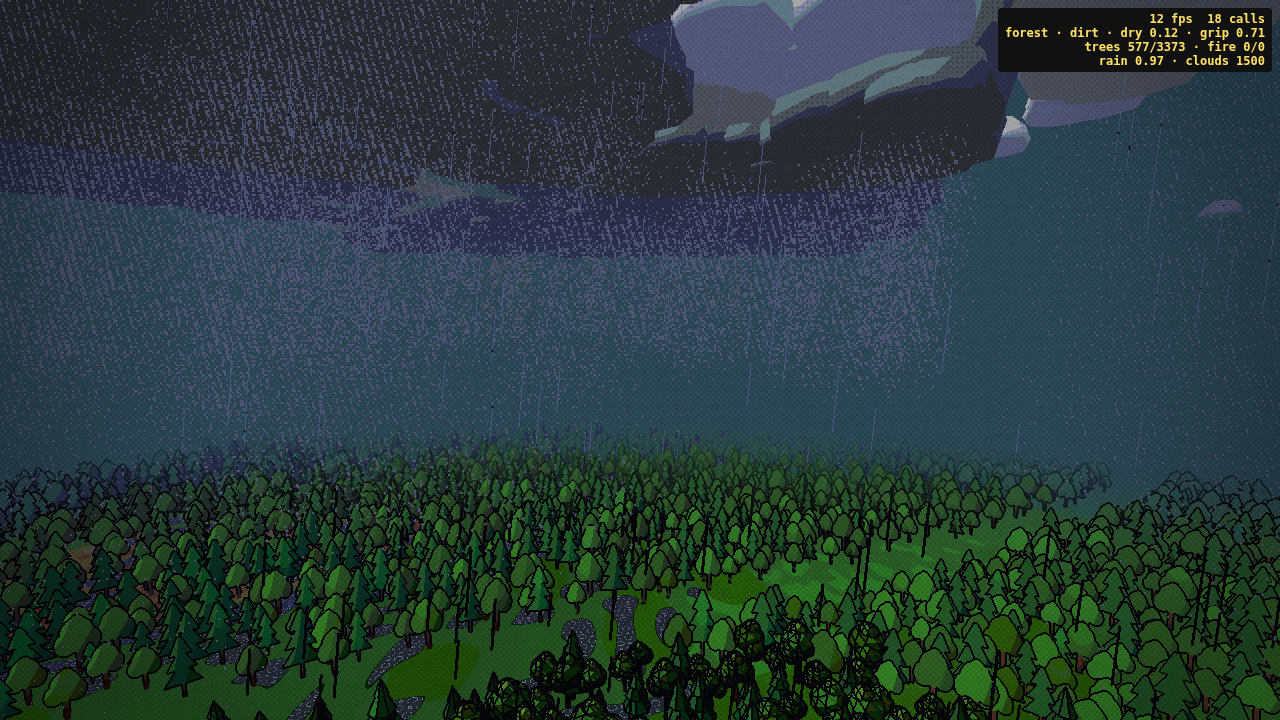
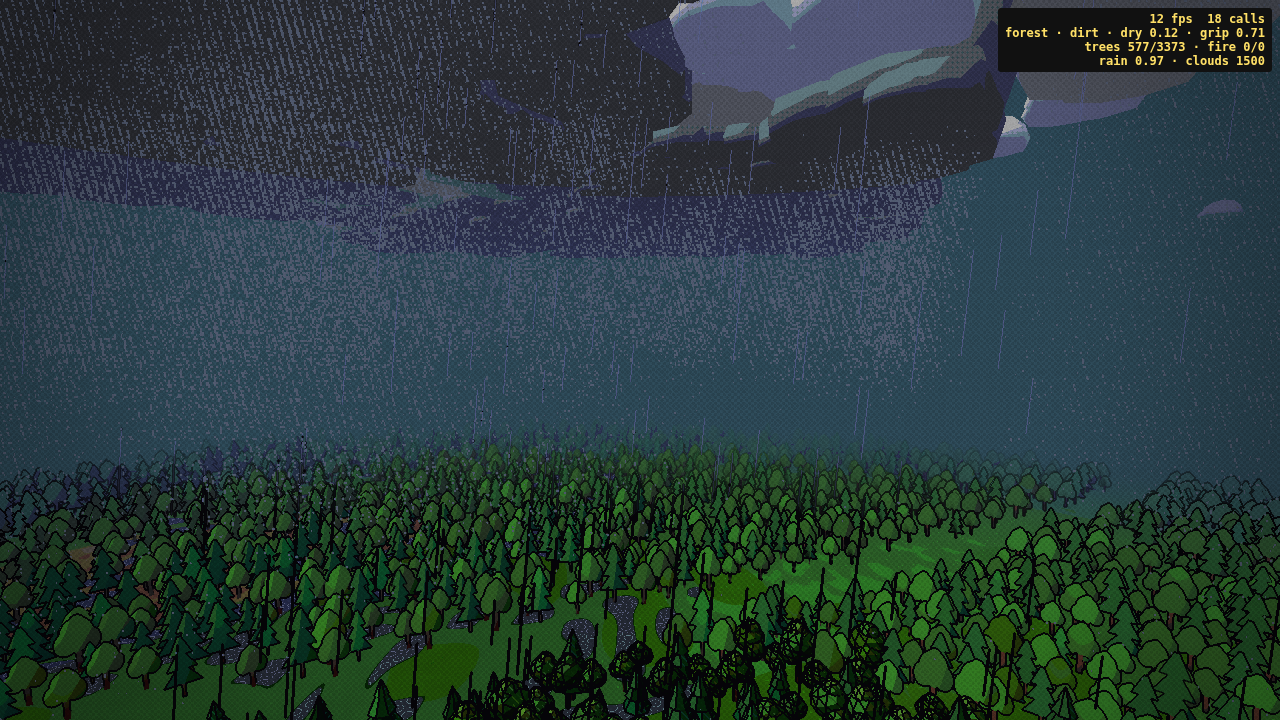
Wider roads: highways 2x (24 m), dirt trails/loops 1.5x; bridges probe both edges; loop distance perpendicular; road width test

diff --git a/terrain/world.js b/terrain/world.js
@@ -127,6 +127,9 @@ export function naturalHeight(x, z) { return natural(x, z); }
 
 // ---------------- road network: graph on a coarse jittered grid, sine-curve edges ----------------
 const RG = 1400, HWY = 1, TRAIL = 2, LOOP = 3;
+// road half-widths (m). v2 widening: paved highways 6 -> 12 (2x), dirt trails 3.6 -> 5.4 and dirt race loops 8 -> 12 (1.5x).
+// Every mask (trees, rocks, grass, fuel, bridges, grade blend, shoulders) derives from e.hw, so they follow automatically.
+export const ROAD_HW = { hwy: 12, trail: 5.4, loop: 12 }, ROAD_HW_V1 = { hwy: 6, trail: 3.6, loop: 8 };
 const nodes = new Map();
 function nodeAt(i, j) {
   const key = (i + 5000) * 10000 + (j + 5000); let n = nodes.get(key);
@@ -150,7 +153,7 @@ function edgeAt(i, j, dir) {
     const a = nodeAt(i, j), b = dir ? nodeAt(i, j + 1) : nodeAt(i + 1, j);
     const dx = b.x - a.x, dz = b.z - a.z, L = Math.hypot(dx, dz), k = 1 + fl(hash(i, j, 23 + dir) * (type === HWY ? 2 : 3));
     const amp = (hash(i, j, 25 + dir) - 0.5) * 2 * (type === HWY ? 0.18 : 0.26) * L / (Math.PI * k);
-    e = { id: key, type, a, b, ax: a.x, az: a.z, L, dx: dx / L, dz: dz / L, nx: -dz / L, nz: dx / L, amp, k, hw: type === HWY ? 6 : 3.6, loop: false };
+    e = { id: key, type, a, b, ax: a.x, az: a.z, L, dx: dx / L, dz: dz / L, nx: -dz / L, nz: dx / L, amp, k, hw: type === HWY ? ROAD_HW.hwy : ROAD_HW.trail, loop: false };
     buildProfile(e);
   }
   edges.set(key, e); return e;
@@ -176,6 +179,9 @@ function buildProfile(e) {
   for (let i = 0; i <= M; i++) { pathPoint(e, i / M, false); p[i] = natural(PP.x, PP.z); wet[i] = p[i] < WATER + 0.6 ? 1 : 0; }
   // narrow rivers fall between 30 m profile samples -> probe 4 sub-samples per segment so grade crossings get a bridge instead of a dam
   for (let i = 0; i < M; i++) for (let k = 1; k < 5; k++) { pathPoint(e, (i + k / 5) / M, false); if (natural(PP.x, PP.z) < WATER + 0.6) { wet[k < 3 ? i : i + 1] = 1; } }
+  // wide roads: a river can run under one edge only -> also probe both road edges (+-hw) at every sub-sample
+  for (let i = 0; i <= M; i++) for (let k = 0; k < 5 && i + k / 5 <= M; k++) { pathPoint(e, (i + k / 5) / M, false); const nx = -PP.tz * e.hw, nz = PP.tx * e.hw;
+    if (natural(PP.x + nx, PP.z + nz) < WATER + 0.6 || natural(PP.x - nx, PP.z - nz) < WATER + 0.6) wet[k < 3 ? i : mn(M, i + 1)] = 1; }
   if (!e.loop) { p[0] = e.a.h; p[M] = e.b.h; }
   const q = new Float32Array(M + 1);
   for (let pass = 0; pass < 14; pass++) {
@@ -211,7 +217,7 @@ const tcache = new Map();
 export function nearTrack(x, z) {
   const ci = fl(x / CELL), cj = fl(z / CELL), key = ci * 100000 + cj;
   let t = tcache.get(key);
-  if (!t) { t = trackOf(ci, cj); t.path = { id: 'L' + t.id, loop: true, trk: t, type: LOOP, hw: 8, k: 0, amp: 0 }; buildProfile(t.path); tcache.set(key, t); }
+  if (!t) { t = trackOf(ci, cj); t.path = { id: 'L' + t.id, loop: true, trk: t, type: LOOP, hw: ROAD_HW.loop, k: 0, amp: 0 }; buildProfile(t.path); tcache.set(key, t); }
   return t;
 }
 // candidate edges per road cell (cached)
@@ -229,10 +235,10 @@ function cellEdges(ci, cj) {
 }
 // distance from (x,z) to path e -> fills PD {d (unsigned), s (signed lateral, + = normal side), t}
 const PD = { d: 1e9, s: 0, t: 0 };
-function pathDist(e, x, z) {
+function pathDist(e, x, z) { // loops: radial offset scaled to the perpendicular distance, so the drivable width matches the mesh ribbon
   if (e.loop) {
     const T = e.trk, dx = x - T.cx, dz = z - T.cz, th = Math.atan2(dz, dx), r = trackR(T, th), rr = Math.hypot(dx, dz);
-    PD.s = rr - r; PD.d = A(PD.s); PD.t = (th < 0 ? th + 6.283185307 : th) / 6.283185307; return true;
+    PD.s = (rr - r) * r / Math.hypot(r, trackDR(T, th)); PD.d = A(PD.s); PD.t = (th < 0 ? th + 6.283185307 : th) / 6.283185307; return true;
   }
   const rx = x - e.ax, rz = z - e.az, proj = rx * e.dx + rz * e.dz, perp = rx * e.nx + rz * e.nz;
   if (proj < -REACH || proj > e.L + REACH || A(perp) > A(e.amp) + REACH) return false;
@@ -291,7 +297,7 @@ export function sample(x, z, o = OUT) {
 export function height(x, z) { return sample(x, z).h; }
 export function ground(x, z) { sample(x, z); return OUT.deck > OUT.h ? OUT.deck : OUT.h; } // physics: includes bridge decks
 export function trackW(x, z) { // 1 on race loop, smooth falloff (kept for scenery/compat)
-  const t = nearTrack(x, z); pathDist(t.path, x, z); return PD.d < 9 ? 1 : PD.d > 22 ? 0 : sst(22, 9, PD.d);
+  const t = nearTrack(x, z), hw = t.path.hw; pathDist(t.path, x, z); return PD.d < hw + 1 ? 1 : PD.d > hw + 14 ? 0 : sst(hw + 14, hw + 1, PD.d);
 }
 export function normal(x, z, out, fn = height) {
   const e = 1.0, hx = fn(x + e, z) - fn(x - e, z), hz = fn(x, z + e) - fn(x, z - e);

diff --git a/terrain/roads.js b/terrain/roads.js
@@ -13,6 +13,7 @@ export function createRoads(scene, mk) { // mk(kind:'asphalt'|'dirt'|'bridge', t
     noise(g, '#45464b', 0.25);
     g.fillStyle = '#eee'; g.fillRect(3, 0, 3, 256); g.fillRect(58, 0, 3, 256);
     g.fillStyle = '#f2c230'; g.fillRect(30.5, 0, 3, 140);
+    g.fillStyle = 'rgba(238,238,238,0.85)'; g.fillRect(16, 0, 2, 90); g.fillRect(46, 0, 2, 90); // lane dashes: the 24 m highway reads as 2 lanes each way
   });
   const dirtTex = canvasTex(g => {
     noise(g, '#9a7652', 0.3, 1400);

diff --git a/README.md b/README.md
@@ -53,6 +53,22 @@ It then renders `test/shots.json` into `shots/` and measures fps. Results are in
 
 Screenshots: `shots/01-forest-clouds-rain.png`, `02-cloud-shadows`, `03-grassland-fire`, `04-burnt-ground`, `05-burning-trees-night`, `06-tree-hp-states`, `07-test-page-ui`.
 
+## Road widths (v2)
+Roads were widened. Half-widths live in `terrain/world.js` as `ROAD_HW` (the old values are in `ROAD_HW_V1`):
+
+| road | old full width | new full width | factor |
+|---|---|---|---|
+| paved highway | 12 m | 24 m (2 lanes each way, lane dashes) | 2× |
+| dirt trail | 7.2 m | 10.8 m | 1.5× |
+| dirt race loop | 16 m (about 14.7 m drivable) | 24 m | 1.5× |
+
+- Everything derives from `e.hw`: the mesh ribbon, grade flattening (`hw + 1.5` core), the shoulder fade (`hw+0.5 … hw+2.5`), bank, bridge deck, rails and piers, and the tree/rock/grass/fuel masks.
+- Bridges now also probe the water at both road edges (±hw), so a river under one edge of a wide road gets a bridge, not a fill.
+- Race loops now measure the perpendicular distance (it used to be radial), so the drivable width matches the mesh. `trackW()` scales with the loop width.
+- Junction pads at road-graph nodes are unchanged; a node in water still gets a small raised pad.
+
+Run `node test/roads.mjs` (Node only, no browser). It measures the median width over about 2,700 cross-sections, checks that the masks follow the width, that bridge decks span the full width, and that water stays under the decks.
+
 ## Performance (honest)
 All numbers come from SwiftShader **software** rendering on a CPU-only server. They are **not** device numbers:
 - 1280×720: about 10.6 fps, 18 draw calls, about 375k tris

diff --git a/MODULE_API.md b/MODULE_API.md
@@ -64,6 +64,11 @@ At 0 HP the tree despawns and stays gone. Removed IDs are kept in a Set and pers
 ## Events emitted (`T.on(type, fn)` / `T.off`, and on `bus` if it has `emit`)
 `fire:ignite {x,z,cause}` · `tree:burning|tree:burnt|tree:extinguished|tree:removed {id}` · `weather:lightning {x,y,z}`
 
+## Roads
+- `ROAD_HW = {hwy:12, trail:5.4, loop:12}` gives the half-widths in metres (v1 was `{6, 3.6, 8}`; exported as `ROAD_HW_V1`).
+- `sample(x,z).road` is 1 inside `hw + 0.5` and fades to 0 at `hw + 2.5`. `.rd` is the distance past the edge (negative on the road). `.rtype` is HWY=1, TRAIL=2 or LOOP=3.
+- Trees and bushes spawn only where `road < 0.02 && rd > 3`, game rocks only where `road < 0.05 && rd > 2.5`, and fire fuel needs `road <= 0.15`. Bridges set `deck` within `hw + 1.2`.
+
 ## Misc
 - `uniforms` (shared `U`): shaders of other modules can read the same sun, fog, wetness and fire state.
 - `world` is the raw sine world. `stats()`, `save()` / `load(state)` and `dispose()` are also available, and `FIRE_CELL` = 3.

diff --git a/MERGE_NOTES.md b/MERGE_NOTES.md
@@ -21,3 +21,8 @@ I did not touch the game repo. The plan for merging:
 7. **Watch out for**:
    - `flat` is a reserved word in GLSL ES 3.
    - In r160 use `attr.clearUpdateRanges()` + `addUpdateRange()`, not `updateRange`.
+
+## Update: wider roads
+- Highways are 2× wider (24 m) and dirt trails/loops 1.5× wider (10.8 m / 24 m), via `ROAD_HW` in world.js. No API changes.
+- Game side: scale any hard-coded road widths (minimap/map line widths) using `ROAD_HW`. Rocks keep using `road`/`rd`, so they stay off the wider roads automatically.
+- Bridges probe ±hw for water. Loop distance is now perpendicular. `test/roads.mjs` was added. The e2e road-ignite probe now picks a point well inside the road bed.
